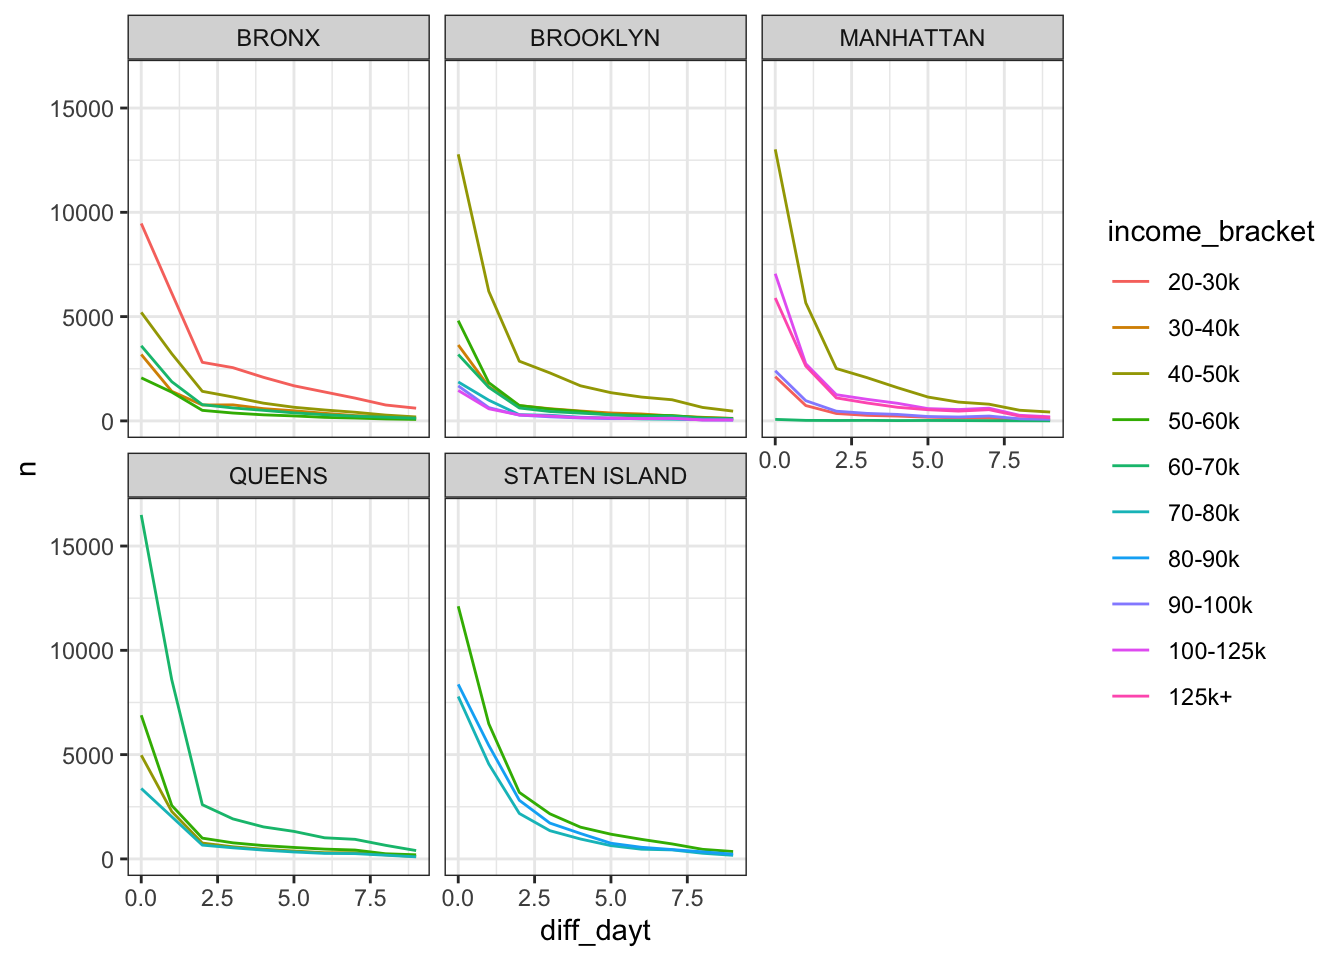
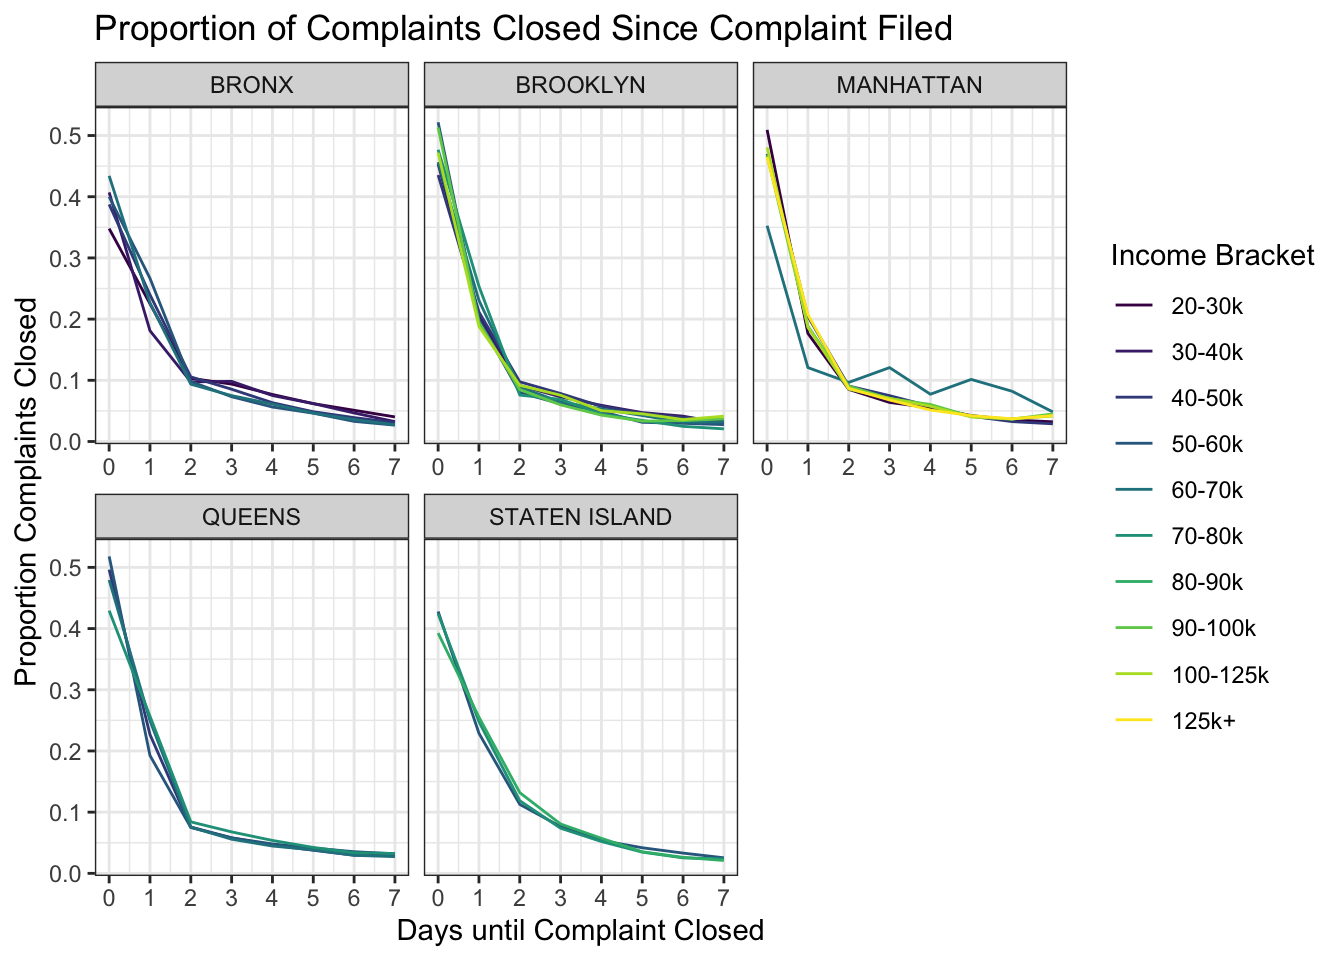
Plots are finalized.

Changed region(s): [[0.0, 0.0, 0.9688, 1.0]]

diff --git a/descript_stats_plots.html b/descript_stats_plots.html
@@ -815,7 +815,8 @@ p %&gt;% mutate(proportion = (open/(open + closed))) %&gt;%
     xlab(&quot;Income Bracket&quot;) +
     ylab(&quot;Proportion Open&quot;) +
     theme(axis.text.x = element_text(angle = 60, hjust = 1)) +
-    scale_fill_viridis(discrete = TRUE)</code></pre>
+    scale_fill_viridis(discrete = TRUE) +
+    labs(fill = &quot;Income Bracket&quot;)</code></pre>
 <p><img src="descript_stats_plots_files/figure-html/unnamed-chunk-12-1.png" width="672" /></p>
 </div>
 <div id="proportion-of-health-related-complaints-by-each-income-category" class="section level2">
@@ -869,7 +870,7 @@ h %&gt;% mutate(proportion = (health_related/(health_related + other))) %&gt;%
     summarize(n = n()) %&gt;% 
     pivot_wider(names_from = open_complaint, values_from = n) %&gt;% 
     rename(closed = &#39;0&#39;,
-           open = &#39;1&#39;) 
+           open = &#39;1&#39;)
 
 r %&gt;% mutate(proportion = (open/(open + closed))) %&gt;% 
     ggplot(aes(x = percent_pop, y = proportion, color = race)) +
@@ -884,6 +885,57 @@ r %&gt;% mutate(proportion = (open/(open + closed))) %&gt;%
 </div>
 <div id="days-to-close-given-income-level" class="section level2">
 <h2>days to close given income level</h2>
+<pre class="r"><code>d &lt;- nyc_plots %&gt;%
+    filter(status == &quot;Closed&quot;) %&gt;% 
+    mutate(closed_year = as.numeric(closed_year),
+        closed_month = as.numeric(closed_month),
+        closed_day = as.numeric(closed_day)) %&gt;% 
+    filter(closed_year != 2047) %&gt;% 
+    mutate(diff_year = abs(closed_year - created_year),
+        diff_month = abs(closed_month - created_month),
+        diff_day = abs(closed_day - created_day),
+        diff_dayt = abs(diff_year*365 + diff_month*30 + diff_day)) %&gt;% 
+    select(income_bracket,
+           median_income,
+           borough, 
+           diff_dayt,
+           diff_year,
+           diff_month,
+           diff_day) %&gt;% 
+    filter(diff_dayt &lt;= 7,
+           !is.na(income_bracket)) %&gt;% 
+    group_by(borough, income_bracket, diff_dayt) %&gt;% 
+    summarize(n = n()) %&gt;% 
+    pivot_wider(names_from = diff_dayt, values_from = n) %&gt;% 
+    rename(day0 = `0`,
+           day1 = `1`,
+           day2 = `2`,
+           day3 = `3`,
+           day4 = `4`,
+           day5 = `5`,
+           day6 = `6`,
+           day7 = `7`)</code></pre>
+<pre><code>## Adding missing grouping variables: `area_name`, `created_year`</code></pre>
+<pre class="r"><code>d$total &lt;- d %&gt;% 
+    ungroup() %&gt;% 
+    select(starts_with(&quot;day&quot;)) %&gt;% 
+    rowSums(.)
+
+d %&gt;% 
+    pivot_longer(cols = day0:day7, names_to = &quot;day&quot;, values_to = &quot;day_total&quot;) %&gt;% 
+    mutate(day = recode(day, day0 = 0, day1 = 1, day2 = 2, day3 = 3, day4 = 4, day5 = 5, day6 = 6, day7 = 7),
+           proportion = day_total/total) %&gt;% 
+    ggplot(aes(x = day, y = proportion, group = income_bracket, color = income_bracket)) + 
+    geom_line() +
+    facet_wrap(~borough, scales = &quot;free_x&quot;) +
+    scale_x_continuous(breaks = scales::pretty_breaks(n = 7)) +
+    scale_color_viridis(discrete = TRUE) +
+    xlab(&quot;Days until Complaint Closed&quot;) +
+    ylab(&quot;Proportion Complaints Closed&quot;) +
+    ggtitle(&quot;Proportion of Complaints Closed Since Complaint Filed&quot;) +
+    labs(color = &quot;Income Bracket&quot;)</code></pre>
+<p><img src="descript_stats_plots_files/figure-html/unnamed-chunk-16-1.png" width="672" /></p>
+<p>not sure if the above plot is more informative, alternative plot:</p>
 <pre class="r"><code>nyc_plots %&gt;%
     filter(status == &quot;Closed&quot;) %&gt;% 
     mutate(closed_year = as.numeric(closed_year),
@@ -901,16 +953,21 @@ r %&gt;% mutate(proportion = (open/(open + closed))) %&gt;%
            diff_year,
            diff_month,
            diff_day) %&gt;% 
-    filter(diff_dayt &lt; 10,
+    filter(diff_dayt &lt;= 7,
            !is.na(income_bracket)) %&gt;% 
     group_by(borough, income_bracket, diff_dayt) %&gt;% 
     summarize(n = n()) %&gt;% 
     ggplot(aes(x = diff_dayt, y = n, group = income_bracket, color = income_bracket)) + 
     geom_line() +
-    facet_wrap(~borough)</code></pre>
+    facet_wrap(~borough, scales = &quot;free_x&quot;) +
+    scale_x_continuous(breaks = scales::pretty_breaks(n = 7)) +
+    scale_color_viridis(discrete = TRUE) +
+    xlab(&quot;Days until Complaint Closed&quot;) +
+    ylab(&quot;Total Complaints Closed&quot;) +
+    ggtitle(&quot;Number of Complaints Closed Since Complaint Filed&quot;) +
+    labs(color = &quot;Income Bracket&quot;)</code></pre>
 <pre><code>## Adding missing grouping variables: `area_name`, `created_year`</code></pre>
-<p><img src="descript_stats_plots_files/figure-html/unnamed-chunk-16-1.png" width="672" /></p>
-<pre class="r"><code># sum total of income by borough</code></pre>
+<p><img src="descript_stats_plots_files/figure-html/unnamed-chunk-17-1.png" width="672" /></p>
 </div>
 </div>
 
